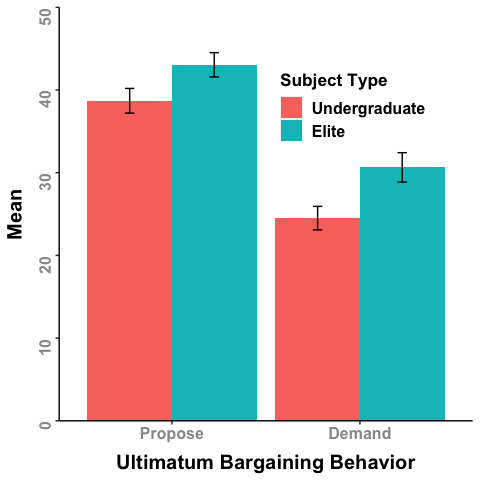
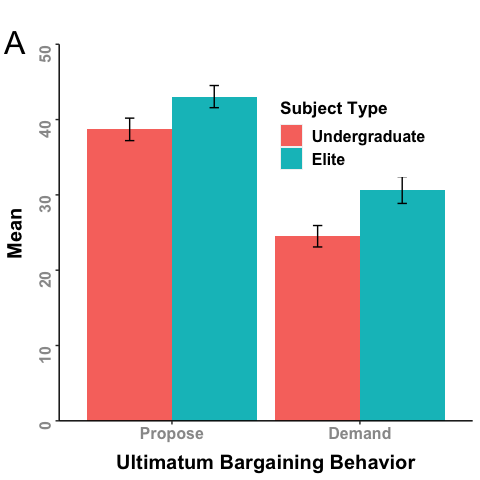
Update HW_B5.

diff --git a/Homeworks/B5/HW_B5.md b/Homeworks/B5/HW_B5.md
@@ -181,10 +181,11 @@ panel_a <- ggplot(panel_a_data, aes(factor(behavior), m_behavior, fill = factor(
   scale_x_discrete(labels = c("0" = "Propose", "1" = "Demand")) +
   scale_y_continuous(expand = c(0, 0), limits = c(0, 50)) +
   scale_fill_discrete(labels = c("0" = "Undergraduate", "1" = "Elite")) +
-  labs(x = "Ultimatum Bargaining Behavior", y = "Mean", fill = "Subject Type") +
+  labs(title = "A", x = "Ultimatum Bargaining Behavior", y = "Mean", fill = "Subject Type") +
   theme(panel.background = element_rect(fill = "transparent", colour = NA),
         panel.border = element_blank(),
         panel.grid = element_blank(),
+        plot.title = element_text(size = 24, hjust = -.14, vjust = -2.5),
         axis.line = element_line(colour = "black"),
         axis.text.x = element_text(size = 12, face = "bold", colour = "grey60"),
         axis.text.y = element_text(size = 12, face = "bold", colour = "grey60", angle = 90),
@@ -275,7 +276,7 @@ p_value_patience
 
 ``` r
 ### (4) Double-check
-t.test(elite_ug_lk$patience[elite_ug_lk$elite == 1], elite_ug_lk$patience[elite_ug_lk$elite == 0], alternative = "two.sided") # The t-values are the same, but the p-values are different. Why? Maybe because DF is calculated differently?
+t.test(elite_ug_lk$patience[elite_ug_lk$elite == 1], elite_ug_lk$patience[elite_ug_lk$elite == 0], alternative = "two.sided") 
 ```
 
     ## 
@@ -291,6 +292,10 @@ t.test(elite_ug_lk$patience[elite_ug_lk$elite == 1], elite_ug_lk$patience[elite_
     ## 10.305263  6.881435
 
 ``` r
+# The t-values are the same, but the p-values are different. Why? Maybe because DF is calculated differently?
+```
+
+``` r
 panel_b_data <- data.frame(
   subject = c(0, 1), # 0 = undergraduate, 1 = elite
   m_patience = c(m_college_patience, m_elite_patience),
@@ -302,10 +307,11 @@ panel_b <- ggplot(panel_b_data, aes(factor(subject), m_patience)) +
   geom_errorbar(aes(ymin = m_patience - se, ymax = m_patience + se), width = .1, position=position_dodge(.9)) + 
   scale_x_discrete(labels = c("0" = "Undergraduate", "1" = "Elite")) +
   scale_y_continuous(expand = c(0.0, 0.0), limits = c(0.0, 11.0, 2.5)) +
-  labs(x = "Subject Type", y = "Mean # of Patient Choices") +
+  labs(title = "B", x = "Subject Type", y = "Mean # of Patient Choices") +
   theme(panel.background = element_rect(fill = "transparent", colour = NA),
         panel.border = element_blank(),
         panel.grid = element_blank(),
+        plot.title = element_text(size = 24, hjust = -.27, vjust = -2.5),
         axis.line = element_line(colour = "black"),
         axis.text.x = element_text(size = 12, face = "bold", colour = "grey60"),
         axis.text.y = element_text(size = 12, face = "bold", colour = "grey60", angle = 90, hjust = .5),
@@ -541,12 +547,13 @@ panel_c <- ggplot(panel_c_data, aes(factor(level), m_level, fill = factor(subjec
   scale_x_discrete(labels = c("0" = "K=0", "1" = "K=1", "2" = "K=2")) +
   scale_y_continuous(labels = scales::percent, expand = c(0, 0), limits = c(.0, .8), breaks = seq(.2, .6, .2)) +
   scale_fill_discrete(labels = c("0" = "Undergraduate", "1" = "Elite")) +
-  labs(x = "Estimated Level of Strategic Reasoning", y = "Propotion of Population", fill = "Subject Type") +
+  labs(title = "C", x = "Estimated Level of Strategic Reasoning", y = "Propotion of Population", fill = "Subject Type") +
   theme(panel.background = element_rect(fill = "transparent", colour = NA),
         panel.border = element_blank(),
         panel.grid = element_blank(),
+        plot.title = element_text(size = 24, face = "bold", hjust = -.11, vjust = -2.5),
         axis.line = element_line(colour = "black"),
-        axis.text.x = element_text(size = 12, face = "bold", colour = "grey60"),
+        axis.text.x = element_text(size = 12, colour = "grey60"),
         axis.text.y = element_text(size = 12, face = "bold", colour = "grey60", angle = 90, hjust = .5),
         axis.title.x = element_text(margin = margin(t = 9), face = "bold", size = 15),
         axis.title.y = element_text(margin = margin(r = 9), face = "bold", size = 15),
@@ -563,4 +570,10 @@ panel_c
 ## Note: The dataset used to generate panel c is panel_c_data, which is based on elite.ug.lk.patience.dists.csv.
 ```
 
-### 
+## 4. Combination
+
+``` r
+grid.arrange(panel_a, panel_b, panel_c, ncol = 3, widths = c (1.5, 1, 2))
+```
+
+![](HW_B5_files/figure-gfm/combination-1.png)<!-- -->
